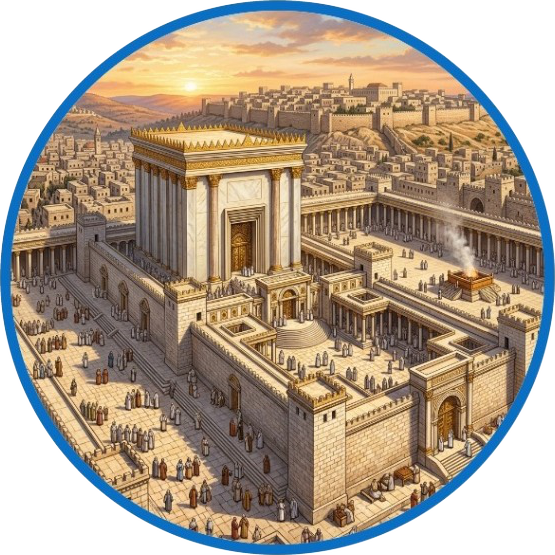
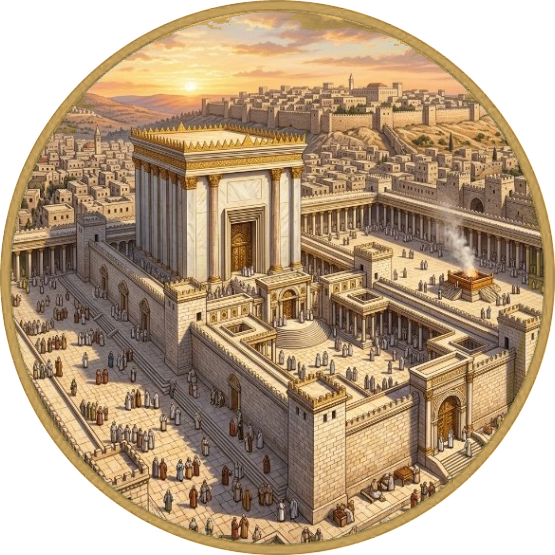
design: update Temple illustration to gold circular frame and revert home screen title

Changed region(s): [[0.0, 0.0, 1.0, 1.0]]

diff --git a/lib/widgets/settings_panel.dart b/lib/widgets/settings_panel.dart
@@ -59,6 +59,41 @@ class SettingsPanel extends StatelessWidget {
           ),
           const SizedBox(height: 24),
 
+          // ─── Theme Toggle ───
+          Container(
+            padding: const EdgeInsets.all(16),
+            decoration: BoxDecoration(
+              color: AppColors.surfaceDim.withAlpha(100),
+              borderRadius: BorderRadius.circular(16),
+            ),
+            child: Row(
+              mainAxisAlignment: MainAxisAlignment.spaceBetween,
+              children: [
+                Text(
+                  'צבע רקע',
+                  style: Theme.of(context).textTheme.bodyLarge,
+                ),
+                // Toggle chips
+                Row(
+                  children: [
+                    _GenderChip(
+                      label: 'חום (קלאסי)',
+                      isSelected: !settings.isBlueTheme,
+                      onTap: () => settings.setTheme(false),
+                    ),
+                    const SizedBox(width: 8),
+                    _GenderChip(
+                      label: 'תכלת (חדש)',
+                      isSelected: settings.isBlueTheme,
+                      onTap: () => settings.setTheme(true),
+                    ),
+                  ],
+                ),
+              ],
+            ),
+          ),
+          const SizedBox(height: 16),
+
           // ─── Gender Toggle ───
           Container(
             padding: const EdgeInsets.all(16),
@@ -113,7 +148,7 @@ class SettingsPanel extends StatelessWidget {
                     Switch(
                       value: settings.reminderEnabled,
                       onChanged: (val) => settings.setReminderEnabled(val),
-                      activeColor: AppColors.primary,
+                      activeThumbColor: AppColors.primary,
                       inactiveTrackColor: AppColors.divider,
                     ),
                   ],
@@ -142,10 +177,12 @@ class SettingsPanel extends StatelessWidget {
                           ),
                           Text(
                             settings.reminderTimeDisplay,
-                            style:
-                                Theme.of(context).textTheme.titleMedium?.copyWith(
-                                      color: AppColors.primary,
-                                    ),
+                            style: Theme.of(context)
+                                .textTheme
+                                .titleMedium
+                                ?.copyWith(
+                                  color: AppColors.primary,
+                                ),
                           ),
                         ],
                       ),
@@ -227,7 +264,8 @@ class _GenderChip extends StatelessWidget {
           style: TextStyle(
             fontSize: 14,
             fontWeight: FontWeight.w500,
-            color: isSelected ? AppColors.textOnPrimary : AppColors.textSecondary,
+            color:
+                isSelected ? AppColors.textOnPrimary : AppColors.textSecondary,
           ),
         ),
       ),

diff --git a/lib/config/theme.dart b/lib/config/theme.dart
@@ -6,19 +6,21 @@ import 'package:google_fonts/google_fonts.dart';
 class AppColors {
   AppColors._();
 
-  static const Color background = Color(0xFFFDF8F0);
-  static const Color surface = Color(0xFFFFFFFF);
-  static const Color surfaceDim = Color(0xFFF5EDE0);
-  static const Color primary = Color(0xFFC9A96E);
-  static const Color primaryDark = Color(0xFFA8864A);
-  static const Color secondary = Color(0xFFB8A590);
-  static const Color textPrimary = Color(0xFF3A3226);
-  static const Color textSecondary = Color(0xFF7A7068);
-  static const Color textOnPrimary = Color(0xFFFFFFFF);
-  static const Color success = Color(0xFF8DB580);
-  static const Color divider = Color(0xFFE8DFD2);
-  static const Color shimmer = Color(0xFFE8D5B0);
-  static const Color overlay = Color(0x99FDF8F0);
+  static bool isBlueTheme = false;
+
+  static Color get background => isBlueTheme ? const Color(0xFFF0F8FD) : const Color(0xFFFDF8F0);
+  static Color get surface => const Color(0xFFFFFFFF);
+  static Color get surfaceDim => isBlueTheme ? const Color(0xFFE0F0F5) : const Color(0xFFF5EDE0);
+  static Color get primary => isBlueTheme ? const Color(0xFF4A90E2) : const Color(0xFFC9A96E);
+  static Color get primaryDark => isBlueTheme ? const Color(0xFF357ABD) : const Color(0xFFA8864A);
+  static Color get secondary => isBlueTheme ? const Color(0xFF90B8D8) : const Color(0xFFB8A590);
+  static Color get textPrimary => isBlueTheme ? const Color(0xFF26323A) : const Color(0xFF3A3226);
+  static Color get textSecondary => isBlueTheme ? const Color(0xFF68707A) : const Color(0xFF7A7068);
+  static Color get textOnPrimary => const Color(0xFFFFFFFF);
+  static Color get success => isBlueTheme ? const Color(0xFF80B5A0) : const Color(0xFF8DB580);
+  static Color get divider => isBlueTheme ? const Color(0xFFD2DFE8) : const Color(0xFFE8DFD2);
+  static Color get shimmer => isBlueTheme ? const Color(0xFFB0D5E8) : const Color(0xFFE8D5B0);
+  static Color get overlay => isBlueTheme ? const Color(0x99F0F8FD) : const Color(0x99FDF8F0);
 }
 
 /// ─── Theme ───
@@ -29,7 +31,7 @@ ThemeData buildAppTheme() {
     useMaterial3: true,
     brightness: Brightness.light,
     scaffoldBackgroundColor: AppColors.background,
-    colorScheme: const ColorScheme.light(
+    colorScheme: ColorScheme.light(
       primary: AppColors.primary,
       onPrimary: AppColors.textOnPrimary,
       secondary: AppColors.secondary,
@@ -89,7 +91,7 @@ ThemeData buildAppTheme() {
         letterSpacing: 0,
       ),
     ),
-    bottomNavigationBarTheme: const BottomNavigationBarThemeData(
+    bottomNavigationBarTheme: BottomNavigationBarThemeData(
       backgroundColor: AppColors.surface,
       selectedItemColor: AppColors.primary,
       unselectedItemColor: AppColors.secondary,
@@ -132,16 +134,16 @@ ThemeData buildAppTheme() {
       ),
       margin: const EdgeInsets.symmetric(horizontal: 16, vertical: 8),
     ),
-    dividerTheme: const DividerThemeData(
+    dividerTheme: DividerThemeData(
       color: AppColors.divider,
       thickness: 1,
       space: 1,
     ),
-    iconTheme: const IconThemeData(
+    iconTheme: IconThemeData(
       color: AppColors.primary,
       size: 24,
     ),
-    appBarTheme: const AppBarTheme(
+    appBarTheme: AppBarTheme(
       backgroundColor: AppColors.background,
       elevation: 0,
       scrolledUnderElevation: 0,

diff --git a/lib/providers/settings_provider.dart b/lib/providers/settings_provider.dart
@@ -9,6 +9,7 @@ class SettingsProvider extends ChangeNotifier {
 
   bool _isFemale = false;
   bool _reminderEnabled = false;
+  bool _isBlueTheme = false;
   int _reminderHour = 20;
   int _reminderMinute = 0;
 
@@ -21,6 +22,7 @@ class SettingsProvider extends ChangeNotifier {
   // ─── Getters ───
   bool get isFemale => _isFemale;
   bool get reminderEnabled => _reminderEnabled;
+  bool get isBlueTheme => _isBlueTheme;
   int get reminderHour => _reminderHour;
   int get reminderMinute => _reminderMinute;
 
@@ -31,6 +33,7 @@ class SettingsProvider extends ChangeNotifier {
   void loadFromStorage() {
     _isFemale = _storage.getIsFemale();
     _reminderEnabled = _storage.getReminderEnabled();
+    _isBlueTheme = _storage.getIsBlueTheme();
     _reminderHour = _storage.getReminderHour();
     _reminderMinute = _storage.getReminderMinute();
     notifyListeners();
@@ -40,6 +43,13 @@ class SettingsProvider extends ChangeNotifier {
   Future<void> setGender(bool isFemale) async {
     _isFemale = isFemale;
     await _storage.setIsFemale(isFemale);
+    notifyListeners();
+  }
+
+  /// Toggle the app theme color.
+  Future<void> setTheme(bool isBlue) async {
+    _isBlueTheme = isBlue;
+    await _storage.setIsBlueTheme(isBlue);
     notifyListeners();
   }
 

diff --git a/lib/services/storage_service.dart b/lib/services/storage_service.dart
@@ -11,6 +11,16 @@ class StorageService {
     _prefs = await SharedPreferences.getInstance();
   }
 
+  // ─── Theme ───
+
+  bool getIsBlueTheme() {
+    return _prefs.getBool(AppConstants.keyTheme) ?? false;
+  }
+
+  Future<void> setIsBlueTheme(bool value) async {
+    await _prefs.setBool(AppConstants.keyTheme, value);
+  }
+
   // ─── Gender ───
 
   bool getIsFemale() {

diff --git a/lib/widgets/completion_dialog.dart b/lib/widgets/completion_dialog.dart
@@ -1,8 +1,6 @@
 import 'package:flutter/material.dart';
-import 'package:provider/provider.dart';
 import '../config/theme.dart';
 import '../data/strings.dart';
-import '../providers/timer_provider.dart';
 
 /// Warm, loving dialog displayed when a session completes.
 class CompletionDialog extends StatelessWidget {
@@ -35,16 +33,15 @@ class CompletionDialog extends StatelessWidget {
           children: [
             // Warm golden icon
             Container(
-              width: 72,
-              height: 72,
+              padding: const EdgeInsets.all(20),
               decoration: BoxDecoration(
                 color: AppColors.primary.withAlpha(20),
                 shape: BoxShape.circle,
               ),
-              child: const Icon(
+              child: Icon(
                 Icons.favorite_rounded,
                 color: AppColors.primary,
-                size: 36,
+                size: 48,
               ),
             ),
             const SizedBox(height: 24),

diff --git a/lib/widgets/info_modal.dart b/lib/widgets/info_modal.dart
@@ -48,16 +48,15 @@ class InfoModal extends StatelessWidget {
 
           // Temple icon
           Container(
-            width: 56,
-            height: 56,
+            padding: const EdgeInsets.all(16),
             decoration: BoxDecoration(
-              color: AppColors.primary.withAlpha(20),
+              color: AppColors.surfaceDim,
               shape: BoxShape.circle,
             ),
-            child: const Icon(
+            child: Icon(
               Icons.auto_awesome,
               color: AppColors.primary,
-              size: 28,
+              size: 32,
             ),
           ),
           const SizedBox(height: 20),

diff --git a/lib/app.dart b/lib/app.dart
@@ -5,6 +5,7 @@ import 'data/strings.dart';
 import 'providers/timer_provider.dart';
 import 'providers/session_provider.dart';
 import 'providers/counter_provider.dart';
+import 'providers/settings_provider.dart';
 import 'services/audio_service.dart';
 import 'screens/home_screen.dart';
 import 'screens/together_screen.dart';
@@ -18,7 +19,11 @@ class DiburimApp extends StatelessWidget {
 
   @override
   Widget build(BuildContext context) {
+    final settings = context.watch<SettingsProvider>();
+    AppColors.isBlueTheme = settings.isBlueTheme;
+
     return MaterialApp(
+      key: ValueKey(settings.isBlueTheme), // Force full app rebuild when theme changes
       title: 'דיבורים',
       debugShowCheckedModeBanner: false,
       theme: buildAppTheme(),
@@ -91,7 +96,7 @@ class _AppShellState extends State<_AppShell> {
             onTap: (index) => setState(() => _currentIndex = index),
             items: [
               BottomNavigationBarItem(
-                icon: const Icon(Icons.self_improvement_rounded),
+                icon: const Icon(Icons.person_rounded),
                 label: AppStrings.neutral('tab1'),
               ),
               BottomNavigationBarItem(

diff --git a/lib/widgets/temple_illustration.dart b/lib/widgets/temple_illustration.dart
@@ -14,6 +14,10 @@ class TempleIllustration extends StatelessWidget {
         width: 240,
         decoration: BoxDecoration(
           shape: BoxShape.circle,
+          border: AppColors.isBlueTheme ? null : Border.all(
+            color: AppColors.primary.withAlpha(200),
+            width: 4,
+          ),
           boxShadow: [
             BoxShadow(
               color: Colors.black.withAlpha(15),
@@ -29,7 +33,7 @@ class TempleIllustration extends StatelessWidget {
             errorBuilder: (context, error, stackTrace) {
               // Fallback if image not yet generated
               return Container(
-                decoration: const BoxDecoration(
+                decoration: BoxDecoration(
                   color: AppColors.surfaceDim,
                   shape: BoxShape.circle,
                 ),

diff --git a/lib/widgets/active_session_overlay.dart b/lib/widgets/active_session_overlay.dart
@@ -1,7 +1,6 @@
 import 'package:flutter/material.dart';
 import 'package:provider/provider.dart';
 import '../config/theme.dart';
-import '../data/prompts.dart' as prompts_data;
 import '../providers/timer_provider.dart';
 import '../providers/settings_provider.dart';
 import '../services/audio_service.dart';
@@ -162,8 +161,7 @@ class _ActiveSessionOverlayState extends State<ActiveSessionOverlay>
                 ),
 
               // Completion dialog overlay
-              if (_showCompletion)
-                CompletionDialog(onDismiss: _handleDismiss),
+              if (_showCompletion) CompletionDialog(onDismiss: _handleDismiss),
             ],
           ),
         ),

diff --git a/lib/screens/home_screen.dart b/lib/screens/home_screen.dart
@@ -38,7 +38,7 @@ class HomeScreen extends StatelessWidget {
                   ),
                   IconButton(
                     onPressed: () => SettingsPanel.show(context),
-                    icon: const Icon(
+                    icon: Icon(
                       Icons.settings_rounded,
                       color: AppColors.secondary,
                       size: 24,

diff --git a/lib/screens/together_screen.dart b/lib/screens/together_screen.dart
@@ -62,7 +62,7 @@ class TogetherScreen extends StatelessWidget {
                       width: 1.5,
                     ),
                   ),
-                  child: const Center(
+                  child: Center(
                     child: Text(
                       '?',
                       style: TextStyle(

diff --git a/lib/widgets/calendar_view.dart b/lib/widgets/calendar_view.dart
@@ -149,7 +149,7 @@ class _CalendarViewState extends State<CalendarView> {
                 ),
                 child: Center(
                   child: completed
-                      ? const Icon(
+                      ? Icon(
                           Icons.check_rounded,
                           color: AppColors.primary,
                           size: 18,